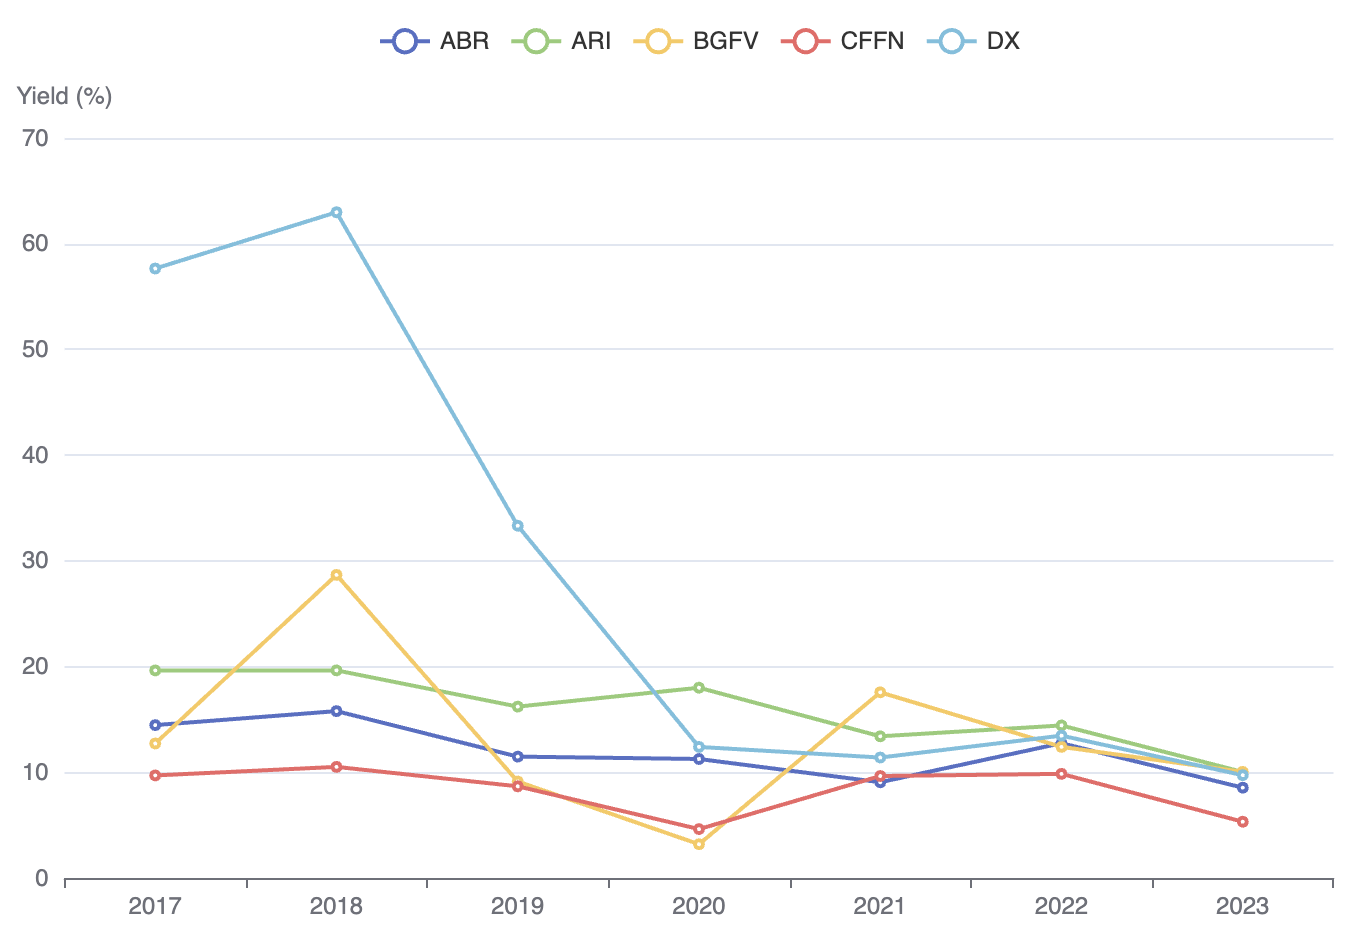
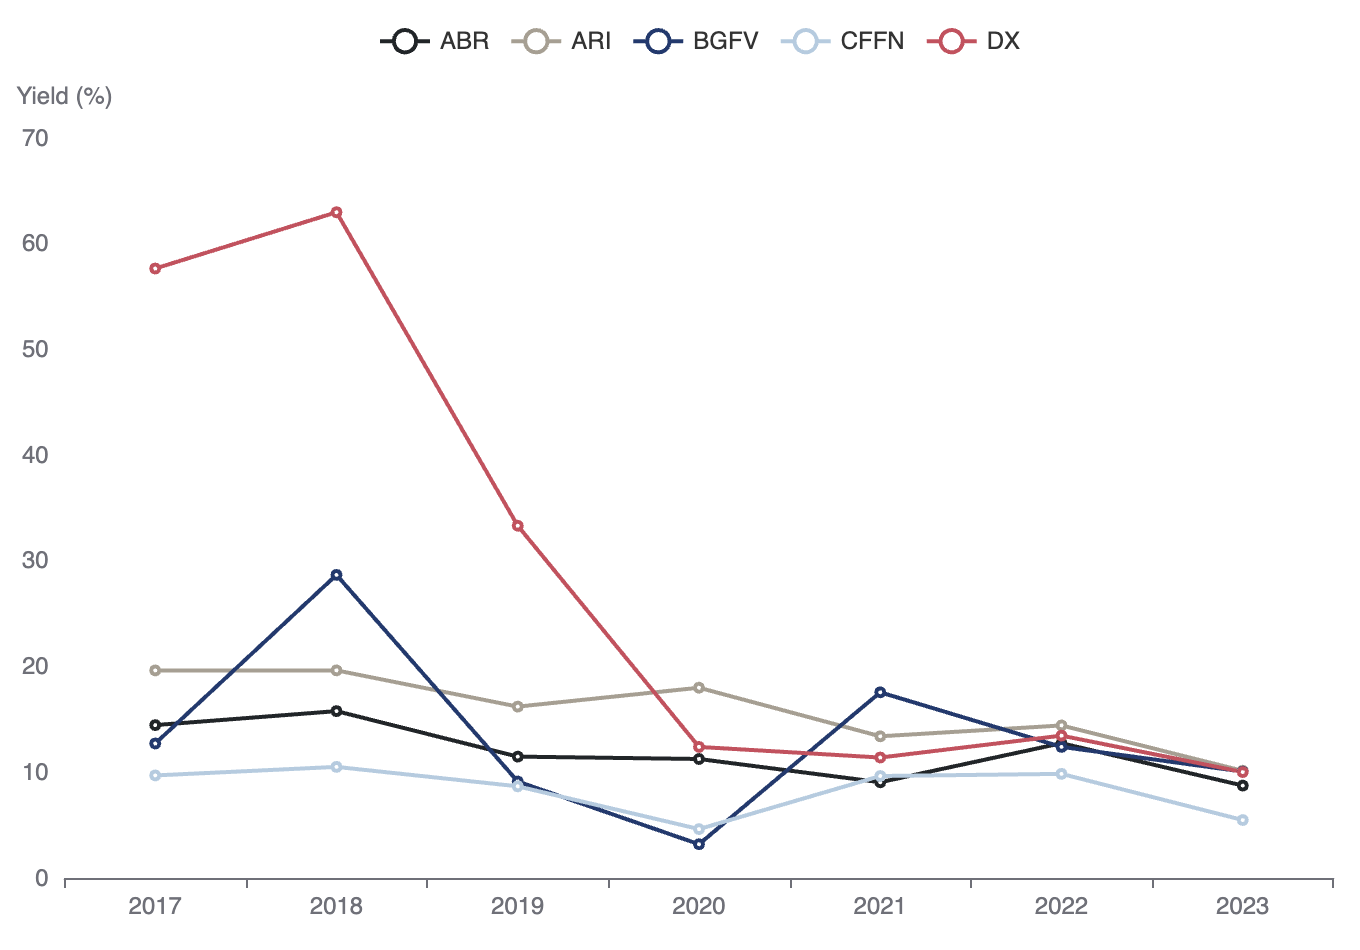
chore: change colors andtitle of dividends post

diff --git a/_site/posts/how-to-get-yearly-dividend-yield-from-r/index.html b/_site/posts/how-to-get-yearly-dividend-yield-from-r/index.html
@@ -9,7 +9,7 @@
 <meta name="author" content="Wlademir Ribeiro Prates">
 <meta name="dcterms.date" content="2023-10-09">
 
-<title>Unlocking the Highest-Paying Dividend Stocks with R?</title>
+<title>Unlocking the Highest-Paying Dividend Stocks with R</title>
 <style>
 code{white-space: pre-wrap;}
 span.smallcaps{font-variant: small-caps;}
@@ -200,7 +200,7 @@ j=d.createElement(s),dl=l!='dataLayer'?'&l='+l:'';j.async=true;j.src=
 <header id="title-block-header" class="quarto-title-block default page-columns page-full">
   <div class="quarto-title-banner page-columns page-full">
     <div class="quarto-title column-body">
-      <div class="quarto-title-block"><div><h1 class="title">Unlocking the Highest-Paying Dividend Stocks with R?</h1><button type="button" class="btn code-tools-button" id="quarto-code-tools-source"><i class="bi"></i> Code</button></div></div>
+      <div class="quarto-title-block"><div><h1 class="title">Unlocking the Highest-Paying Dividend Stocks with R</h1><button type="button" class="btn code-tools-button" id="quarto-code-tools-source"><i class="bi"></i> Code</button></div></div>
                                 <div class="quarto-categories">
                 <div class="quarto-category">Data Visualization</div>
                 <div class="quarto-category">Finance</div>
@@ -474,8 +474,8 @@ j=d.createElement(s),dl=l!='dataLayer'?'&l='+l:'';j.async=true;j.src=
 <span id="cb8-45"><a href="#cb8-45" aria-hidden="true" tabindex="-1"></a>  <span class="fu">e_color</span>(chart_color_pallete) <span class="sc">|&gt;</span></span>
 <span id="cb8-46"><a href="#cb8-46" aria-hidden="true" tabindex="-1"></a>  <span class="fu">e_hide_grid_lines</span>(<span class="at">which =</span> <span class="st">"y"</span>)</span></code><button title="Copy to Clipboard" class="code-copy-button"><i class="bi"></i></button></pre></div>
 <div class="cell-output-display">
-<div id="htmlwidget-67daf4587dc75f893233" style="width:100%;height:500px;" class="echarts4r html-widget"></div>
-<script type="application/json" data-for="htmlwidget-67daf4587dc75f893233">{"x":{"theme":"","tl":false,"draw":true,"renderer":"canvas","events":[],"buttons":[],"opts":{"yAxis":[{"show":true,"name":"Yield (%)","splitLine":{"show":false}}],"xAxis":[{"data":["2017","2018","2019","2020","2021","2022","2023"],"type":"category","boundaryGap":true}],"legend":{"data":["ABR","ARI","BGFV","CFFN","DX"]},"series":[{"data":[{"value":["2017","14.4629"]},{"value":["2018","15.7862"]},{"value":["2019","11.4813"]},{"value":["2020","11.2572"]},{"value":["2021"," 9.0588"]},{"value":["2022","12.7522"]},{"value":["2023"," 8.7596"]}],"yAxisIndex":0,"xAxisIndex":0,"name":"ABR","type":"line","coordinateSystem":"cartesian2d"},{"data":[{"value":["2017","19.6331"]},{"value":["2018","19.6396"]},{"value":["2019","16.2115"]},{"value":["2020","18.0002"]},{"value":["2021","13.4037"]},{"value":["2022","14.4306"]},{"value":["2023","10.1547"]}],"yAxisIndex":0,"xAxisIndex":0,"name":"ARI","type":"line","coordinateSystem":"cartesian2d"},{"data":[{"value":["2017","12.7222"]},{"value":["2018","28.6710"]},{"value":["2019"," 9.1278"]},{"value":["2020"," 3.1950"]},{"value":["2021","17.5665"]},{"value":["2022","12.4026"]},{"value":["2023","10.0536"]}],"yAxisIndex":0,"xAxisIndex":0,"name":"BGFV","type":"line","coordinateSystem":"cartesian2d"},{"data":[{"value":["2017"," 9.7010"]},{"value":["2018","10.5104"]},{"value":["2019"," 8.6731"]},{"value":["2020"," 4.6265"]},{"value":["2021"," 9.6468"]},{"value":["2022"," 9.8505"]},{"value":["2023"," 5.4721"]}],"yAxisIndex":0,"xAxisIndex":0,"name":"CFFN","type":"line","coordinateSystem":"cartesian2d"},{"data":[{"value":["2017","57.6519"]},{"value":["2018","62.9771"]},{"value":["2019","33.3217"]},{"value":["2020","12.3991"]},{"value":["2021","11.3958"]},{"value":["2022","13.4683"]},{"value":["2023","10.0257"]}],"yAxisIndex":0,"xAxisIndex":0,"name":"DX","type":"line","coordinateSystem":"cartesian2d"}],"tooltip":{"trigger":"axis"},"color":["#212529","#A89F91","#1C3A70","#B0CCE1","#D1495B","#F9C74F","#43AA8B","#F8961E","#6A0572","#577590","#F9844A","#1982C4","#6B4226","#3B3F45","#0A0C0F"]},"dispose":true},"evals":[],"jsHooks":[]}</script>
+<div id="htmlwidget-281139c31dca00eddb96" style="width:100%;height:500px;" class="echarts4r html-widget"></div>
+<script type="application/json" data-for="htmlwidget-281139c31dca00eddb96">{"x":{"theme":"","tl":false,"draw":true,"renderer":"canvas","events":[],"buttons":[],"opts":{"yAxis":[{"show":true,"name":"Yield (%)","splitLine":{"show":false}}],"xAxis":[{"data":["2017","2018","2019","2020","2021","2022","2023"],"type":"category","boundaryGap":true}],"legend":{"data":["ABR","ARI","BGFV","CFFN","DX"]},"series":[{"data":[{"value":["2017","14.4629"]},{"value":["2018","15.7862"]},{"value":["2019","11.4813"]},{"value":["2020","11.2572"]},{"value":["2021"," 9.0588"]},{"value":["2022","12.7522"]},{"value":["2023"," 8.7443"]}],"yAxisIndex":0,"xAxisIndex":0,"name":"ABR","type":"line","coordinateSystem":"cartesian2d"},{"data":[{"value":["2017","19.6331"]},{"value":["2018","19.6396"]},{"value":["2019","16.2115"]},{"value":["2020","18.0002"]},{"value":["2021","13.4037"]},{"value":["2022","14.4306"]},{"value":["2023","10.1400"]}],"yAxisIndex":0,"xAxisIndex":0,"name":"ARI","type":"line","coordinateSystem":"cartesian2d"},{"data":[{"value":["2017","12.7222"]},{"value":["2018","28.6710"]},{"value":["2019"," 9.1278"]},{"value":["2020"," 3.1950"]},{"value":["2021","17.5665"]},{"value":["2022","12.4026"]},{"value":["2023","10.0671"]}],"yAxisIndex":0,"xAxisIndex":0,"name":"BGFV","type":"line","coordinateSystem":"cartesian2d"},{"data":[{"value":["2017"," 9.7010"]},{"value":["2018","10.5104"]},{"value":["2019"," 8.6731"]},{"value":["2020"," 4.6265"]},{"value":["2021"," 9.6468"]},{"value":["2022"," 9.8505"]},{"value":["2023"," 5.4839"]}],"yAxisIndex":0,"xAxisIndex":0,"name":"CFFN","type":"line","coordinateSystem":"cartesian2d"},{"data":[{"value":["2017","57.6519"]},{"value":["2018","62.9771"]},{"value":["2019","33.3217"]},{"value":["2020","12.3991"]},{"value":["2021","11.3958"]},{"value":["2022","13.4683"]},{"value":["2023","10.0214"]}],"yAxisIndex":0,"xAxisIndex":0,"name":"DX","type":"line","coordinateSystem":"cartesian2d"}],"tooltip":{"trigger":"axis"},"color":["#212529","#A89F91","#1C3A70","#B0CCE1","#D1495B","#F9C74F","#43AA8B","#F8961E","#6A0572","#577590","#F9844A","#1982C4","#6B4226","#3B3F45","#0A0C0F"]},"dispose":true},"evals":[],"jsHooks":[]}</script>
 </div>
 </div>
 <section id="yearly-dividend-yield-analysis-for-selected---brazillian-stocks" class="level4">
@@ -541,8 +541,8 @@ j=d.createElement(s),dl=l!='dataLayer'?'&l='+l:'';j.async=true;j.src=
 <span id="cb10-23"><a href="#cb10-23" aria-hidden="true" tabindex="-1"></a>  <span class="fu">e_color</span>(chart_color_pallete) <span class="sc">|&gt;</span></span>
 <span id="cb10-24"><a href="#cb10-24" aria-hidden="true" tabindex="-1"></a>  <span class="fu">e_hide_grid_lines</span>(<span class="at">which =</span> <span class="st">"y"</span>)</span></code><button title="Copy to Clipboard" class="code-copy-button"><i class="bi"></i></button></pre></div>
 <div class="cell-output-display">
-<div id="htmlwidget-44d65fec9ee79c860677" style="width:100%;height:500px;" class="echarts4r html-widget"></div>
-<script type="application/json" data-for="htmlwidget-44d65fec9ee79c860677">{"x":{"theme":"","tl":false,"draw":true,"renderer":"canvas","events":[],"buttons":[],"opts":{"yAxis":[{"show":true,"name":"Yield (%)","splitLine":{"show":false}}],"xAxis":[{"data":["2017","2018","2019","2020","2021","2022","2023"],"type":"category","boundaryGap":true}],"legend":{"data":["BBSE3","BRAP4","CPFE3","CSNA3","EGIE3","TAEE11","VIVT3"]},"series":[{"data":[{"value":["2017"," 9.5247"]},{"value":["2018","16.5436"]},{"value":["2019"," 5.8847"]},{"value":["2020","17.3738"]},{"value":["2021"," 5.7364"]},{"value":["2022"," 6.4677"]},{"value":["2023","10.9802"]}],"yAxisIndex":0,"xAxisIndex":0,"name":"BBSE3","type":"line","coordinateSystem":"cartesian2d"},{"data":[{"value":["2017"," 8.0804"]},{"value":["2018"," 6.3566"]},{"value":["2019"," 7.8611"]},{"value":["2020"," 4.4525"]},{"value":["2021","45.5229"]},{"value":["2022","11.5908"]},{"value":["2023"," 5.5358"]}],"yAxisIndex":0,"xAxisIndex":0,"name":"BRAP4","type":"line","coordinateSystem":"cartesian2d"},{"data":[{"value":["2017"," 1.7859"]},{"value":["2018"," 1.4963"]},{"value":["2019"," 2.0842"]},{"value":["2020","15.1421"]},{"value":["2021","16.5497"]},{"value":["2022","10.6646"]},{"value":["2023"," 8.4152"]}],"yAxisIndex":0,"xAxisIndex":0,"name":"CPFE3","type":"line","coordinateSystem":"cartesian2d"},{"data":[{"value":["2018","10.4694"]},{"value":["2019","14.5316"]},{"value":["2020"," 0.0712"]},{"value":["2021"," 9.4318"]},{"value":["2022","18.5593"]},{"value":["2023"," 5.3617"]}],"yAxisIndex":0,"xAxisIndex":0,"name":"CSNA3","type":"line","coordinateSystem":"cartesian2d"},{"data":[{"value":["2017"," 9.4725"]},{"value":["2018","12.0240"]},{"value":["2019"," 5.4594"]},{"value":["2020"," 7.5152"]},{"value":["2021"," 8.2897"]},{"value":["2022"," 8.4187"]},{"value":["2023"," 6.5584"]}],"yAxisIndex":0,"xAxisIndex":0,"name":"EGIE3","type":"line","coordinateSystem":"cartesian2d"},{"data":[{"value":["2017","14.5869"]},{"value":["2018","18.2554"]},{"value":["2019"," 8.7852"]},{"value":["2020","12.4726"]},{"value":["2021","14.3650"]},{"value":["2022","10.7949"]},{"value":["2023"," 6.8217"]}],"yAxisIndex":0,"xAxisIndex":0,"name":"TAEE11","type":"line","coordinateSystem":"cartesian2d"},{"data":[{"value":["2017","10.6361"]},{"value":["2018","11.7913"]},{"value":["2019"," 7.0936"]},{"value":["2020","13.1425"]},{"value":["2021"," 7.9643"]},{"value":["2022"," 5.6245"]},{"value":["2023"," 5.3476"]}],"yAxisIndex":0,"xAxisIndex":0,"name":"VIVT3","type":"line","coordinateSystem":"cartesian2d"}],"tooltip":{"trigger":"axis"},"color":["#212529","#A89F91","#1C3A70","#B0CCE1","#D1495B","#F9C74F","#43AA8B","#F8961E","#6A0572","#577590","#F9844A","#1982C4","#6B4226","#3B3F45","#0A0C0F"]},"dispose":true},"evals":[],"jsHooks":[]}</script>
+<div id="htmlwidget-1b6199db48bf45cf6097" style="width:100%;height:500px;" class="echarts4r html-widget"></div>
+<script type="application/json" data-for="htmlwidget-1b6199db48bf45cf6097">{"x":{"theme":"","tl":false,"draw":true,"renderer":"canvas","events":[],"buttons":[],"opts":{"yAxis":[{"show":true,"name":"Yield (%)","splitLine":{"show":false}}],"xAxis":[{"data":["2017","2018","2019","2020","2021","2022","2023"],"type":"category","boundaryGap":true}],"legend":{"data":["BBSE3","BRAP4","CPFE3","CSNA3","EGIE3","TAEE11","VIVT3"]},"series":[{"data":[{"value":["2017"," 9.5247"]},{"value":["2018","16.5436"]},{"value":["2019"," 5.8847"]},{"value":["2020","17.3738"]},{"value":["2021"," 5.7364"]},{"value":["2022"," 6.4677"]},{"value":["2023","10.9802"]}],"yAxisIndex":0,"xAxisIndex":0,"name":"BBSE3","type":"line","coordinateSystem":"cartesian2d"},{"data":[{"value":["2017"," 8.0804"]},{"value":["2018"," 6.3566"]},{"value":["2019"," 7.8611"]},{"value":["2020"," 4.4525"]},{"value":["2021","45.5229"]},{"value":["2022","11.5908"]},{"value":["2023"," 5.5358"]}],"yAxisIndex":0,"xAxisIndex":0,"name":"BRAP4","type":"line","coordinateSystem":"cartesian2d"},{"data":[{"value":["2017"," 1.7859"]},{"value":["2018"," 1.4963"]},{"value":["2019"," 2.0842"]},{"value":["2020","15.1421"]},{"value":["2021","16.5497"]},{"value":["2022","10.6646"]},{"value":["2023"," 8.4152"]}],"yAxisIndex":0,"xAxisIndex":0,"name":"CPFE3","type":"line","coordinateSystem":"cartesian2d"},{"data":[{"value":["2018","10.4694"]},{"value":["2019","14.5316"]},{"value":["2020"," 0.0712"]},{"value":["2021"," 9.4318"]},{"value":["2022","18.5593"]},{"value":["2023"," 5.3617"]}],"yAxisIndex":0,"xAxisIndex":0,"name":"CSNA3","type":"line","coordinateSystem":"cartesian2d"},{"data":[{"value":["2017"," 9.4725"]},{"value":["2018","12.0240"]},{"value":["2019"," 5.4594"]},{"value":["2020"," 7.5152"]},{"value":["2021"," 8.2897"]},{"value":["2022"," 8.4187"]},{"value":["2023"," 6.5584"]}],"yAxisIndex":0,"xAxisIndex":0,"name":"EGIE3","type":"line","coordinateSystem":"cartesian2d"},{"data":[{"value":["2017","14.5869"]},{"value":["2018","18.2554"]},{"value":["2019"," 8.7852"]},{"value":["2020","12.4726"]},{"value":["2021","14.3650"]},{"value":["2022","10.7949"]},{"value":["2023"," 6.8217"]}],"yAxisIndex":0,"xAxisIndex":0,"name":"TAEE11","type":"line","coordinateSystem":"cartesian2d"},{"data":[{"value":["2017","10.6361"]},{"value":["2018","11.7913"]},{"value":["2019"," 7.0936"]},{"value":["2020","13.1425"]},{"value":["2021"," 7.9643"]},{"value":["2022"," 5.6245"]},{"value":["2023"," 5.3476"]}],"yAxisIndex":0,"xAxisIndex":0,"name":"VIVT3","type":"line","coordinateSystem":"cartesian2d"}],"tooltip":{"trigger":"axis"},"color":["#212529","#A89F91","#1C3A70","#B0CCE1","#D1495B","#F9C74F","#43AA8B","#F8961E","#6A0572","#577590","#F9844A","#1982C4","#6B4226","#3B3F45","#0A0C0F"]},"dispose":true},"evals":[],"jsHooks":[]}</script>
 </div>
 </div>
 </section>
@@ -760,7 +760,7 @@ window.document.addEventListener("DOMContentLoaded", function (event) {
 });
 </script><div class="modal fade" id="quarto-embedded-source-code-modal" tabindex="-1" aria-labelledby="quarto-embedded-source-code-modal-label" aria-hidden="true"><div class="modal-dialog modal-dialog-scrollable"><div class="modal-content"><div class="modal-header"><h5 class="modal-title" id="quarto-embedded-source-code-modal-label">Source Code</h5><button class="btn-close" data-bs-dismiss="modal"></button></div><div class="modal-body"><div class="">
 <div class="sourceCode" id="cb11" data-shortcodes="false"><pre class="sourceCode markdown code-with-copy"><code class="sourceCode markdown"><span id="cb11-1"><a href="#cb11-1" aria-hidden="true" tabindex="-1"></a><span class="co">---</span></span>
-<span id="cb11-2"><a href="#cb11-2" aria-hidden="true" tabindex="-1"></a><span class="an">title:</span><span class="co"> "Unlocking the Highest-Paying Dividend Stocks with R?"</span></span>
+<span id="cb11-2"><a href="#cb11-2" aria-hidden="true" tabindex="-1"></a><span class="an">title:</span><span class="co"> "Unlocking the Highest-Paying Dividend Stocks with R"</span></span>
 <span id="cb11-3"><a href="#cb11-3" aria-hidden="true" tabindex="-1"></a><span class="an">author:</span><span class="co"> "Wlademir Ribeiro Prates"</span></span>
 <span id="cb11-4"><a href="#cb11-4" aria-hidden="true" tabindex="-1"></a><span class="an">date:</span><span class="co"> "2023-10-09"</span></span>
 <span id="cb11-5"><a href="#cb11-5" aria-hidden="true" tabindex="-1"></a><span class="an">categories:</span><span class="co"> [Data Visualization, Finance]</span></span>

diff --git a/_site/index.html b/_site/index.html
@@ -259,14 +259,14 @@ j=d.createElement(s),dl=l!='dataLayer'?'&l='+l:'';j.async=true;j.src=
 
 <div class="quarto-listing quarto-listing-container-default" id="listing-listing">
 <div class="list quarto-listing-default">
-<div class="quarto-post image-right" data-index="0" data-categories="Data Visualization,Finance" data-listing-date-sort="1696820400000" data-listing-file-modified-sort="1697138654480" data-listing-reading-time-sort="7.23">
+<div class="quarto-post image-right" data-index="0" data-categories="Data Visualization,Finance" data-listing-date-sort="1696820400000" data-listing-file-modified-sort="1697138965638" data-listing-reading-time-sort="7.23">
 <div class="thumbnail">
 <p><a href="./posts/how-to-get-yearly-dividend-yield-from-r/index.html"> <img src="./posts/how-to-get-yearly-dividend-yield-from-r/preview.png" class="thumnail-image"> </a></p>
 </div>
 <div class="body">
 <a href="./posts/how-to-get-yearly-dividend-yield-from-r/index.html">
 <h3 class="no-anchor listing-title">
-Unlocking the Highest-Paying Dividend Stocks with R?
+Unlocking the Highest-Paying Dividend Stocks with R
 </h3>
 <div class="listing-subtitle">
 
